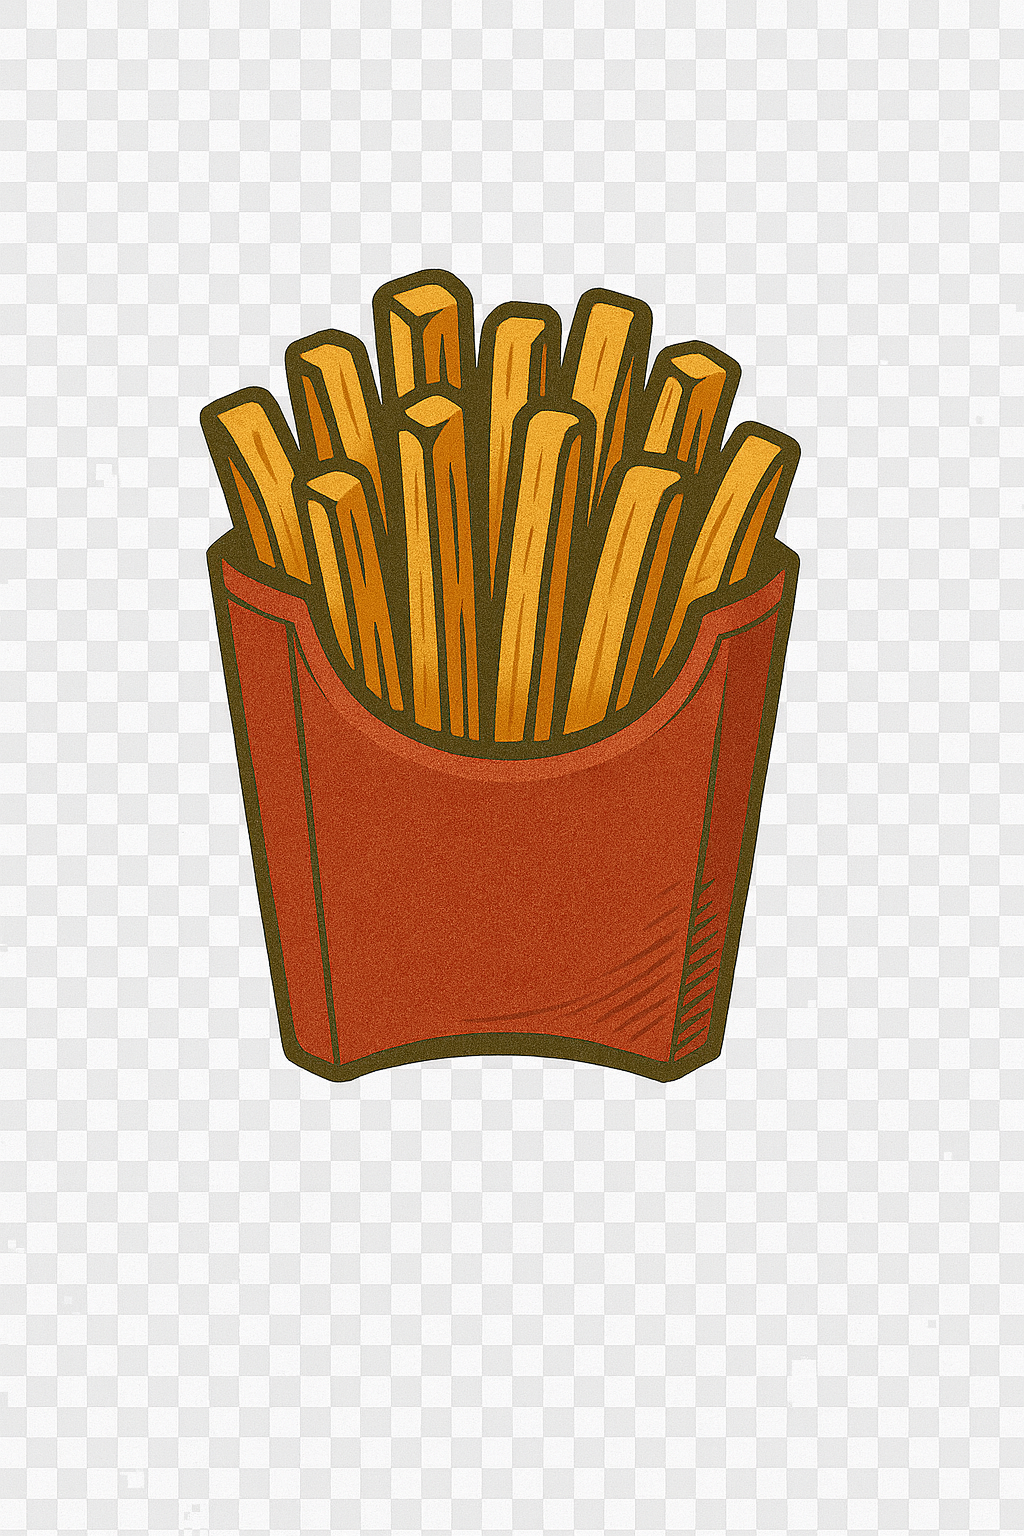
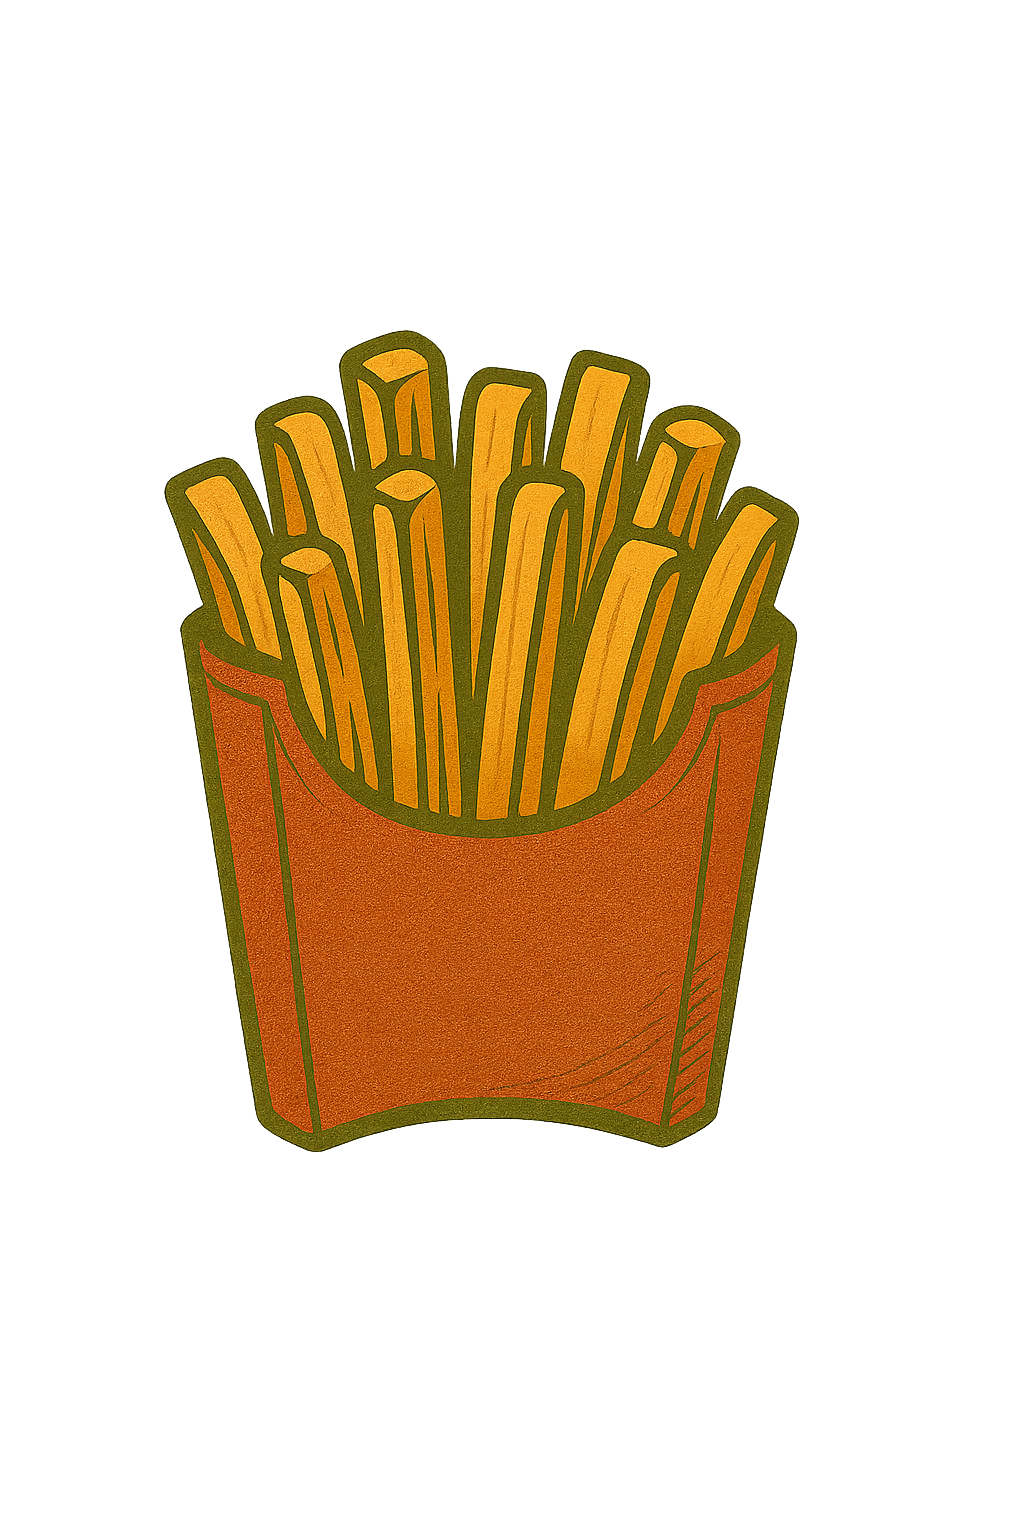
finishai

diff --git a/main.py b/main.py
@@ -57,20 +57,47 @@ class App(ctk.CTk):
         self.frames = {}
 
         #Sukurti visus langus
-        for PageClass in (Pradinis, Uzsakymas):
+        for PageClass in (Pradinis, Uzsakymas, Ivadinis):
             page = PageClass(parent=container, controller=self)
             self.frames[PageClass] = page
 
             page.grid(row=0, column=0, sticky="nsew")
 
         #Rodyti pradini langa
-        self.show_frame(Pradinis)
+        self.show_frame(Ivadinis)
 
     def show_frame(self, page_class):
         frame = self.frames[page_class]
         frame.tkraise()#perkelti langa i virsu
 
+class Ivadinis(ctk.CTkFrame):
+    def __init__(self, parent, controller):
+        super().__init__(parent)
+        self.controller = controller
 
+        langas = ctk.CTkFrame(self, corner_radius=25)
+        langas.place(relx=0.5, rely=0.5, anchor="center")
+
+        ctk.CTkLabel(langas, text="Komanda \"Arbūz\" ", font=("Arial", 24)).pack(padx=50, pady=10)
+        ctk.CTkLabel(
+            langas,
+            text="Jokūbas Kriaučiūnas EEI-5/3 | "
+            ).pack(pady=10)
+        ctk.CTkLabel(
+            langas,
+            text="Timur Valužis EEI-5/3 | "
+            ).pack(pady=10)
+        ctk.CTkLabel(
+            langas,
+            text="Arnas Makutėnas EEI-5/4 | "
+            ).pack(pady=10)
+
+        mygtukas = ctk.CTkButton(
+            langas,
+            text="Testi",
+            command=lambda: self.controller.show_frame(Pradinis)
+        )
+        mygtukas.pack(pady=10)
 
 class Pradinis(ctk.CTkFrame):
     def __init__(self, parent, controller):
@@ -82,8 +109,8 @@ class Pradinis(ctk.CTkFrame):
 
         ctk.CTkLabel(
             master=langas, 
-            text="",           # IMPORTANT: Set text to an empty string
-            image=open_img("logo.png",(250,250)),   # Pass the prepared CTkImage object
+            text="",
+            image=open_img("logo.png",(250,250)),
             fg_color="transparent").pack()
         ctk.CTkLabel(langas, text="Naujas užsakymas", font=("Arial", 24)).pack(padx=50, pady=10)
         ctk.CTkLabel(langas,text="Įveskite savo vardą").pack(pady=10)
@@ -125,10 +152,10 @@ class Uzsakymas(ctk.CTkFrame):
         self.grid_columnconfigure(1, weight=1)   # 25%
 
         #meniu langas
-        meniu = ctk.CTkFrame(self, fg_color="#444444")
+        meniu = ctk.CTkFrame(self, fg_color="#ebd3a7")
         meniu.grid(row=0, column=0, sticky="nsew", padx=5, pady=5)
         #uzsakymo langas
-        desine = ctk.CTkFrame(self, fg_color="#444444")
+        desine = ctk.CTkFrame(self, fg_color="#ebd3a7")
         desine.grid(row=0, column=1, sticky="nsew", padx=5, pady=5)
 
         ctk.CTkLabel(meniu,text="Meniu", font=("Arial", 24)).pack(pady=(15,0))
@@ -161,9 +188,9 @@ class Uzsakymas(ctk.CTkFrame):
 
 
         #krepsio frame
-        ctk.CTkLabel(desine,text="Krepšelis", font=("Arial", 16)).pack(pady=(15,0))
+        ctk.CTkLabel(desine,text="Krepšelis", font=("Arial", 16), fg_color="#f0ad32", corner_radius=5).pack(pady=(15,0), fill="x", padx=10)
         
-        self.krepsys = ctk.CTkScrollableFrame(desine,fg_color="#444444")
+        self.krepsys = ctk.CTkScrollableFrame(desine,fg_color="#ebd3a7")
         self.krepsys.pack(fill="both", expand=True, padx=10, pady=(10,0))
 
         self.sumos_mygtukas = ctk.CTkButton(
@@ -194,10 +221,11 @@ class Uzsakymas(ctk.CTkFrame):
                 langas,
                 text=patiekalai[skiltis][i]["pavadinimas"] + "\n" + f"{patiekalai[skiltis][i]['kaina']:.2f}€",
                 command=command,
-                image=open_img(patiekalai[skiltis][i]["img"], (100,100)),
+                image=open_img(patiekalai[skiltis][i]["img"], (100 + ( 50 if klase is kebabas else 0 ),150)),
                 width=275,
                 height=50,
-                fg_color="#444444"
+                fg_color="#ebd3a7",
+                font=("Arial", 14)
                 ).grid(row=eile, column=stulpelis, sticky="nsew", padx=10, pady=10)
 
 
@@ -218,6 +246,7 @@ class Uzsakymas(ctk.CTkFrame):
         y = main_y + (main_height - popup_height) // 2
         popup.geometry(f"{popup_width}x{popup_height}+{x}+{y}")
         ctk.CTkLabel(popup, text="Pasirinkite priedus", font=("Arial", 16)).pack(pady=10)
+        popup.configure(fg_color="#fce5bb")
 
         papild_sarasas = patiekalai["papildai"]
         checkboxes = []
@@ -270,6 +299,7 @@ class Uzsakymas(ctk.CTkFrame):
                 text=preke.pavadinimas + f"   {preke.kaina:.2f}€",
                 font=("Arial", 14),
                 anchor="w",
+                fg_color="transparent",
                 command=lambda idx=self.controller.krepselis.index(preke): self.krepselio_elemento_logika(idx)
             ).pack(anchor="w", fill="x", padx=10)
             if isinstance(preke, kebabas):
@@ -299,9 +329,13 @@ class Uzsakymas(ctk.CTkFrame):
         x = main_x + (main_width - popup_width) // 2
         y = main_y + (main_height - popup_height) // 2
         popup.geometry(f"{popup_width}x{popup_height}+{x}+{y}")
+        popup.configure(fg_color="#fce5bb")
 
-        ctk.CTkLabel(popup, text="Užsakymas vardu: " + self.controller.vardas, font=("Arial", 16)).pack(pady=5)
-        ctk.CTkLabel(popup, text=f"Mokėti {self.krepselio_suma():.2f}€").pack(fill="x", padx=10, pady=5)
+        ctk.CTkLabel(popup, text="Užsakymas vardu: " + self.controller.vardas.capitalize(), font=("Arial", 16)).pack(pady=5)
+        if self.krepselio_suma() == 0:
+            ctk.CTkLabel(popup, text=f"Užsakymas tuščias").pack(fill="x", padx=10, pady=5)
+        else:
+            ctk.CTkLabel(popup, text=f"Mokėti: {self.krepselio_suma():.2f}€").pack(fill="x", padx=10, pady=5)
         def sumoketa():
             popup.destroy()
             self.valyti_krepsy()
@@ -309,7 +343,7 @@ class Uzsakymas(ctk.CTkFrame):
 
 
 
-        ctk.CTkButton(popup, text="Sumokėta", command=sumoketa).pack(pady=5)
+        ctk.CTkButton(popup, text="Baigti", command=sumoketa).pack(pady=5)
 
 
 if __name__ == "__main__":
